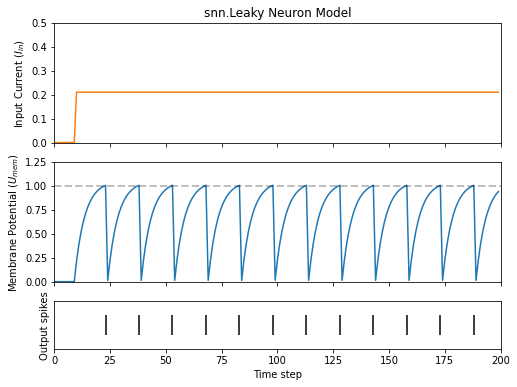
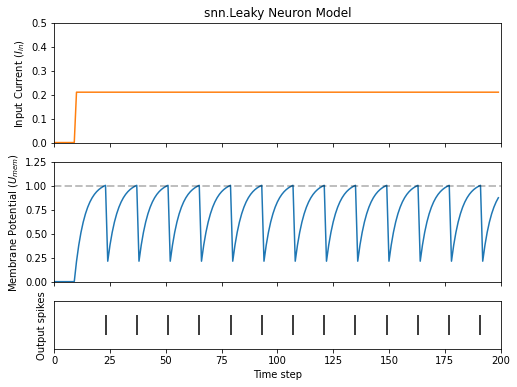
tutorial 3 leaky equation update

diff --git a/docs/tutorials/tutorial_3.rst b/docs/tutorials/tutorial_3.rst
@@ -286,6 +286,15 @@ back one step without loss of generality.
     plot_cur_mem_spk(cur_in, mem_rec, spk_rec, thr_line=1, ylim_max1=0.5,
                      title="snn.Leaky Neuron Model")
 
+Compare this plot with the manually derived leaky integrate-and-fire neuron. 
+The membrane potential reset is slightly weaker: i.e., it uses a *soft reset*. 
+This has been done intentionally because it enables better performance on a few deep learning benchmarks. 
+The equation used instead is:
+
+$$U[t+1] = \underbrace{\beta U[t]}_\text{decay} + \underbrace{WX[t+1]}_\text{input} - \underbrace{\beta S[t]U_{\rm thr}}_\text{soft reset} \tag{11}$$
+.. math:: U[t+1] = \underbrace{\beta U[t]}_\text{decay} + \underbrace{WX[t+1]}_\text{input} - \underbrace{\beta S[t]U_{\rm thr}}_\text{soft reset} \tag{11}
+
+
 This model has the same optional input arguments of ``reset_mechanism``
 and ``threshold`` as described for Lapicque’s neuron model.
 
